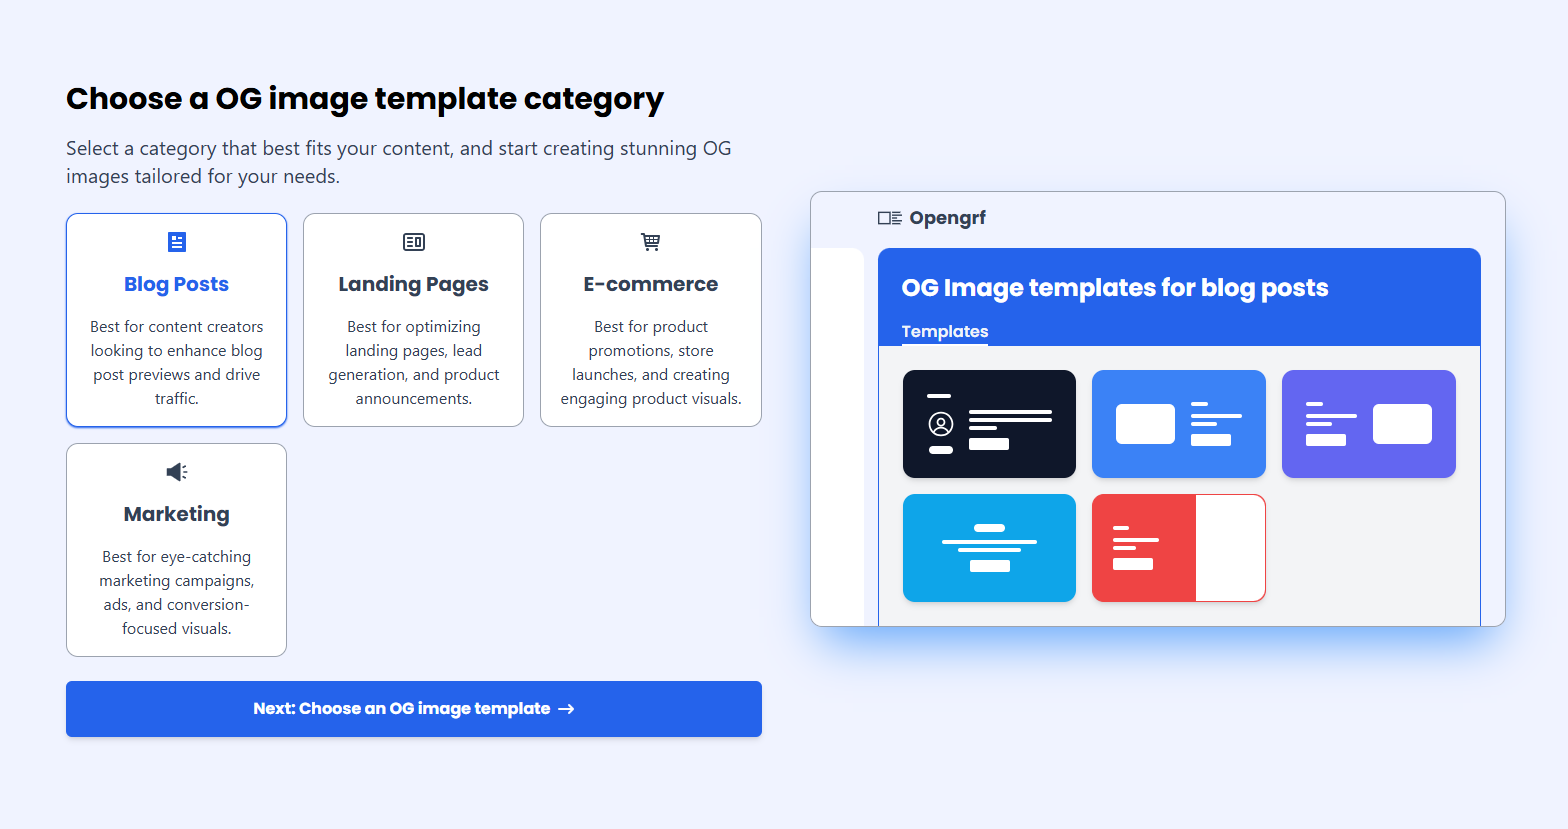
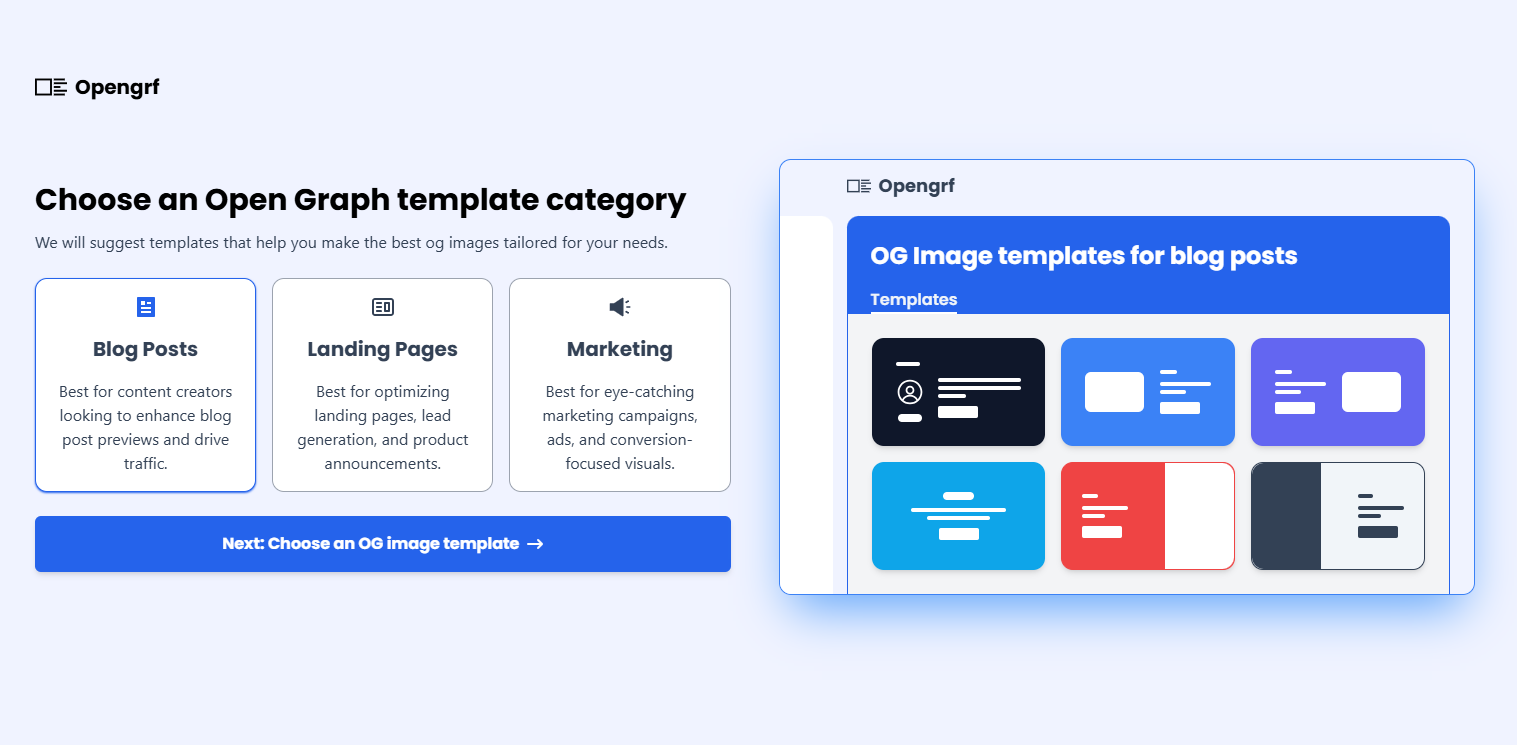
improve UI

Changed region(s): [[0.0, 0.0926, 0.9914, 0.8953]]

diff --git a/pages/index.js b/pages/index.js
@@ -32,11 +32,15 @@ export default function Home() {
         <title>OpenGRF – Instantly Create Custom OG Images for Social Media</title>
       </Head>
       <div className="absolute bg-[#F0F3FF] w-full h-full flex flex-col justify-center items-between">
-      <div className="flex flex-row items-center mx-auto justify-between w-3/4">
+      <div className="flex flex-row items-center mb-4 justify-start mx-auto w-3/4">
+            <TfiLayoutMediaLeft size={32} className="font-bold" />
+            <h4 className="text-xl ml-2 font-bold font-Poppins">Opengrf</h4>
+      </div>
+      <div className="flex flex-row items-center mx-auto justify-between mt-10 w-3/4">
        <div className="flex flex-col w-1/2 mr-12">
-        <h1 className="text-3xl font-bold font-Poppins">Choose a OG image template category</h1>
+        <h1 className="text-3xl font-bold font-Poppins">Choose an Open Graph template category</h1>
         <p className="text-slate-700 text-md mt-3">We will suggest templates that help you make the best og images tailored for your needs.</p>
-        <div className="mt-6 w-full mx-auto grid grid-cols-3 grid-rows-2 gap-4">
+        <div className="mt-6 w-full mx-auto grid grid-cols-3 gap-4">
           <div tabIndex={0} onClick={() => handleSelection("Blog Posts")} id="blog-posts-categ" className={`group ${selectedCategory == "Blog Posts" ? "border-blue-600 shadow-blue-600 shadow-sm" : "border-gray-400"} cursor-pointer bg-white p-4 flex flex-col justify-center items-center rounded-xl border`}>
             <RiArticleFill className={`${selectedCategory == "Blog Posts" ? "text-blue-600" : "text-slate-700"} group-hover:text-blue-600`} size={24} />
             <h3 className={`text-xl ${selectedCategory == "Blog Posts" ? "text-blue-600" : "text-slate-700"} group-hover:text-blue-600 text-slate-700 mt-4 text-center font-bold font-Poppins`}>Blog Posts</h3>
@@ -47,23 +51,19 @@ export default function Home() {
             <h3 className={`text-xl mt-4 ${selectedCategory == "Landing Pages" ? "text-teal-500" : "text-slate-700"} text-center font-bold font-Poppins group-hover:text-teal-500`}>Landing Pages</h3>
             <p className="mt-4 text-center text-slate-700">Best for optimizing landing pages, lead generation, and product announcements.</p>
           </div>
-          <div tabIndex={0} onClick={() => handleSelection("E-commerce")} id="ecom-categ" className={`${selectedCategory == "E-commerce" ? "border-green-600 shadow-green-600 shadow-sm" : "border-gray-400"} group cursor-pointer bg-white p-4 flex flex-col justify-center items-center rounded-xl border`}>
-            <TiShoppingCart className={`${selectedCategory == "E-commerce" ? "text-green-600" : "text-slate-700"} group-hover:text-green-600`} size={24} />
-            <h3 className={`text-xl ${selectedCategory == "E-commerce" ? "text-green-600" : "text-slate-700"} mt-4 group-hover:text-green-600 text-center font-bold font-Poppins`}>E-commerce</h3>
-            <p className="mt-4 text-center text-slate-700">Best for product promotions, store launches, and creating engaging product visuals.</p>
-          </div>
+          
           <div tabIndex={0} onClick={() => handleSelection("Marketing")} id="marketing-categ" className={`${selectedCategory == "Marketing" ? "border-pink-600 shadow-pink-600 shadow-sm" : "border-gray-400"} group cursor-pointer bg-white p-4 flex flex-col justify-center items-center rounded-xl border`}>
             <AiFillSound className={`${selectedCategory == "Marketing" ? "text-pink-600" : "text-slate-700"} group-hover:text-pink-600`} size={24} />
             <h3 className={`text-xl ${selectedCategory == "Marketing" ? "text-pink-600" : "text-slate-700"} mt-4 group-hover:text-pink-600 text-center font-bold font-Poppins`}>Marketing</h3>
             <p className="mt-4 text-center text-slate-700">Best for eye-catching marketing campaigns, ads, and conversion-focused visuals.</p>
           </div>
         </div>
-        <button type="button" className={`rounded-md flex flex-row items-center justify-center shadow-md ${selectedCategory == "Blog Posts" && "bg-blue-600 hover:bg-blue-700"} ${selectedCategory == "Landing Pages" && "bg-teal-600 hover:bg-teal-700"} ${selectedCategory == "E-commerce" && "bg-green-600 hover:bg-green-700"} ${selectedCategory == "Marketing" && "bg-pink-600 hover:bg-pink-700"} ${selectedCategory == "" && "bg-[#6161ff] hover:bg-indigo-600"} px-8 py-4 font-bold font-Poppins text-white mt-6`}>
+        <button type="button" className={`rounded-md flex flex-row items-center justify-center shadow-md ${selectedCategory == "Blog Posts" && "bg-blue-600 hover:bg-blue-700"} ${selectedCategory == "Landing Pages" && "bg-teal-600 hover:bg-teal-700"} ${selectedCategory == "Marketing" && "bg-pink-600 hover:bg-pink-700"} ${selectedCategory == "" && "hidden"} px-8 py-4 font-bold font-Poppins text-white mt-6`}>
           <span>Next: Choose an OG image template</span>
           <FaArrowRightLong className="ml-2" />
         </button>
        </div>
-       <div className={`flex flex-col ${selectedCategory == "Blog Posts" && "shadow-blue-400"} ${selectedCategory == "Landing Pages" && "shadow-teal-400"} ${selectedCategory == "E-commerce" && "shadow-green-400"} ${selectedCategory == "Marketing" && "shadow-pink-400"} shadow-2xl pr-6 w-1/2 rounded-xl border border-gray-400`}>
+       <div className={`flex flex-col ${selectedCategory == "Blog Posts" && "shadow-blue-400 border-blue-500"} ${selectedCategory == "Landing Pages" && "shadow-teal-400 border-teal-500"} ${selectedCategory == "Marketing" && "shadow-pink-400 border-pink-600"} ${selectedCategory == "" && "border-[#6161ff] shadow-[#6161ff]"} shadow-2xl pr-6 w-1/2 rounded-xl border`}>
        <div className={`flex ${selected ? "" : "blur-sm"} flex-row items-stretch justify-between`}>
         <div className="bg-white py-3 mt-14 w-[8%] rounded-tr-xl rounded-bl-xl"></div>
         <div className="pt-3 w-[90%]">
@@ -71,11 +71,11 @@ export default function Home() {
             <TfiLayoutMediaLeft size={24} className="text-slate-700 font-bold" />
             <h4 className="text-lg ml-2 text-slate-700 font-bold font-Poppins">Opengrf</h4>
           </div>
-          <div className={`${selectedCategory == "" && "bg-white"} ${selectedCategory == "Blog Posts" && "bg-blue-600"} ${selectedCategory == "Marketing" && "bg-pink-600"} ${selectedCategory == "E-commerce" && "bg-green-600"} ${selectedCategory == "Landing Pages" && "bg-teal-700"} px-6 pt-6 rounded-tr-xl rounded-tl-xl`}>
+          <div className={`${selectedCategory == "" && "bg-white"} ${selectedCategory == "Blog Posts" && "bg-blue-600"} ${selectedCategory == "Marketing" && "bg-pink-600"} ${selectedCategory == "Landing Pages" && "bg-teal-700"} px-6 pt-6 rounded-tr-xl rounded-tl-xl`}>
             <h3 className={`${selectedCategory == "" ? "" : "text-white"} text-2xl font-Poppins font-bold mb-4`}>OG Image templates for {selectedCategory.toLowerCase()}</h3>
             <div className={`${selectedCategory == "" ? "text-slate-700 border-slate-700" : "text-slate-100 border-white"} border-b-2 w-fit font-semibold font-Poppins`}>Templates</div>
           </div>
-          <div className={`${selectedCategory == "Blog Posts" && "border-r border-l border-blue-600"} ${selectedCategory == "Landing Pages" && "border-r border-l border-teal-500"} ${selectedCategory == "E-commerce" && "border-r border-l border-green-600"} ${selectedCategory == "Marketing" && "border-r border-l border-pink-600"} bg-gray-100 grid grid-cols-3 grid-rows-2 gap-4 p-6`}>
+          <div className={`${selectedCategory == "Blog Posts" && "border-r border-l border-blue-600"} ${selectedCategory == "Landing Pages" && "border-r border-l border-teal-500"} ${selectedCategory == "Marketing" && "border-r border-l border-pink-600"} bg-gray-100 grid grid-cols-3 grid-rows-2 gap-4 p-6`}>
             {
               (selectedCategory == "Blog Posts" || selectedCategory == "")
               &&
@@ -140,6 +140,17 @@ export default function Home() {
                   <div className="w-2/5 bg-white h-full rounded-tr-xl rounded-br-xl py-5 px-4">
                   </div>
                 </div>
+                {/* Template 6 */}
+                <div className="bg-slate-100 border border-slate-700 shadow-md flex flex-row items-center justify-between rounded-xl">
+                  <div className="bg-slate-700 w-2/5 h-full rounded-tl-xl rounded-bl-xl py-5 px-4">
+                  </div>
+                  <div className="w-1/2 py-6 px-5">
+                    <div className="bg-slate-700 rounded-md h-1 w-1/3"></div>
+                    <div className="h-1 mt-2 w-full rounded-xl bg-slate-700"></div>
+                    <div className="h-1 mt-1 w-1/2 rounded-xl bg-slate-700"></div>
+                    <div className="mt-2 h-3 w-10 bg-slate-700 rounded-sm"></div>
+                  </div>
+                </div>
               </>
             }
             {
@@ -174,17 +185,7 @@ export default function Home() {
                 </div>
               </>
             }
-            {
-              selectedCategory == "E-commerce" &&
-              <>
-                <div className="p-6 bg-orange-500 flex flex-col justify-center items-center shadow-md rounded-xl">
-                    <div className="bg-white rounded-md h-1 w-1/3"></div>
-                    <div className="h-6 mt-2 w-2/3 rounded-md bg-white"></div>
-                    <div className="h-1 mt-2 w-1/2 mx-auto rounded-xl bg-white"></div>
-                    <div className="mt-2 h-3 w-1/4 bg-white rounded-sm"></div>
-                </div>
-              </>
-            }
+            
             {
               selectedCategory == "Marketing" &&
               <>
